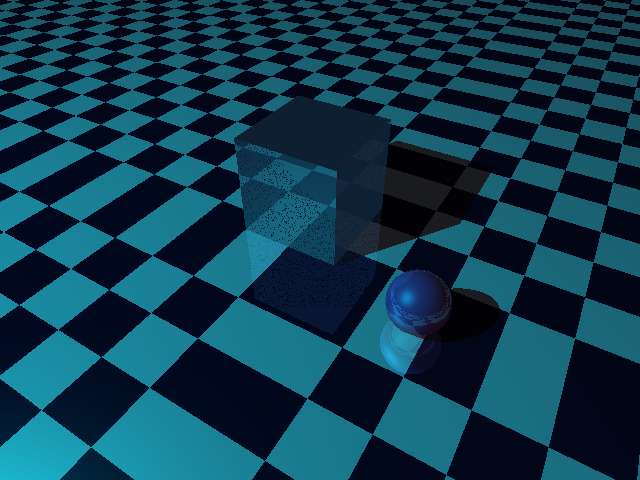
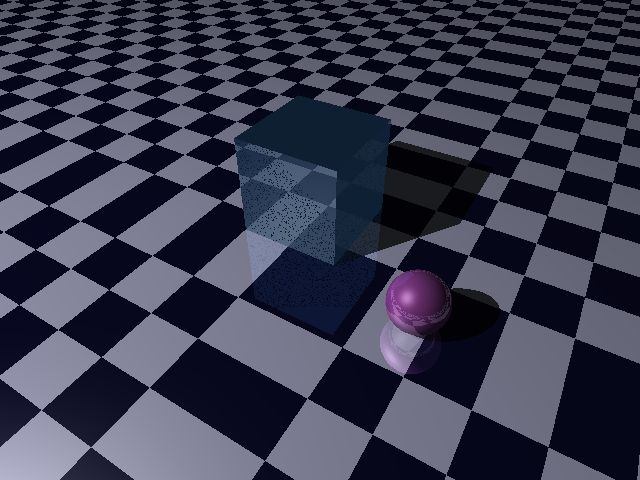
white_light

diff --git a/src/main.cpp b/src/main.cpp
@@ -56,7 +56,7 @@ int main (int argc, char *argv[]){
 	Camera scene_cam (cam_pos, cam_dir, cam_right, cam_down);
 
 	// Scene Color
-	Color cyan_light (0.0, 1.0, 1.0, 0);
+	Color white_light (1.0, 1.0, 1.0, 0);
 	Color blue_reflective (70.0 / 255.0, 159.0 / 255.0, 254.0 / 255.0, 0.3);
 	Color orange_reflective (254.0 / 255.0, 206.0 / 255.0, 70.0 / 255.0, 0.3);
 	Color purple_reflective (105.0 / 255.0, 48.0 / 255.0, 109.0 / 255.0, 0.3);
@@ -64,7 +64,7 @@ int main (int argc, char *argv[]){
 	Color plane_purple (14.0 / 255.0, 16.0 / 255.0, 61.0 / 255.0, 0.5);
 	
 	// Light source
-	Light scene_light (Vect(-7, 10, 10), cyan_light);
+	Light scene_light (Vect(-7, 10, 10), white_light);
 	
 	// Stack of light sources
 	vector<Source*> light_sources;
